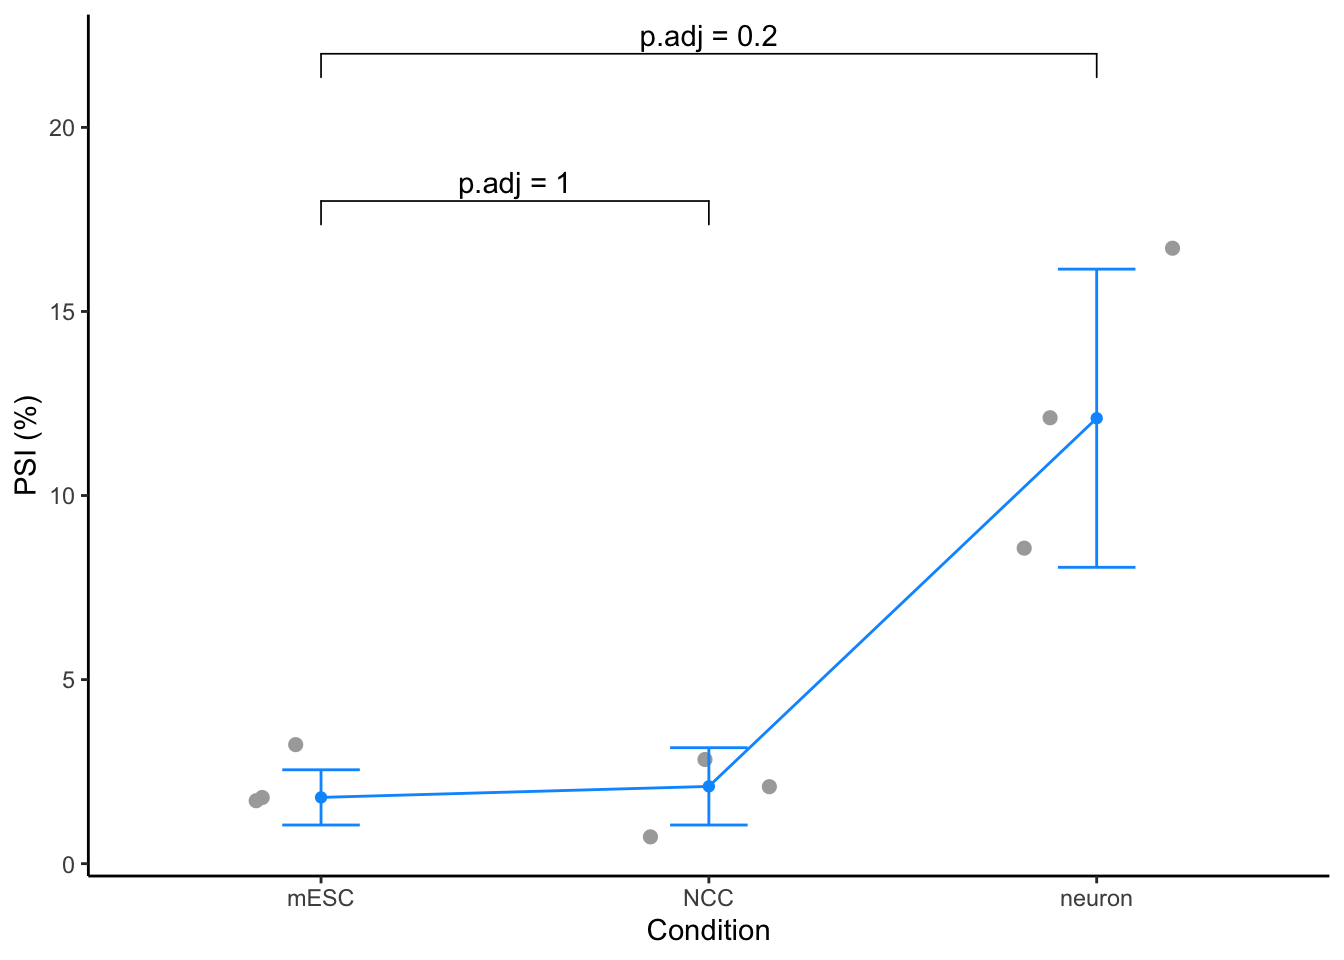
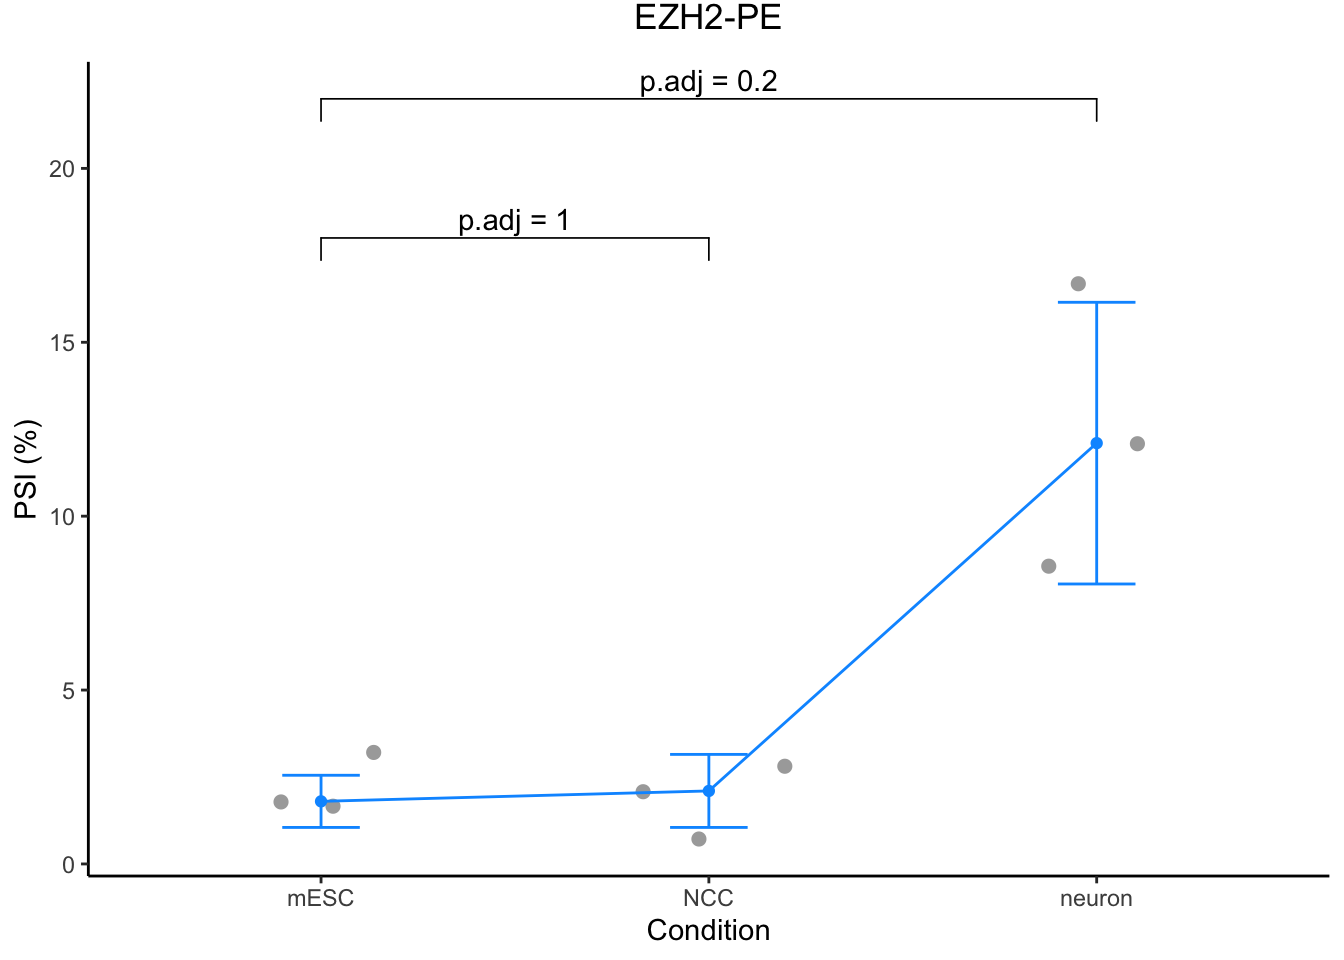
g

diff --git a/docs/index.html b/docs/index.html
@@ -347,8 +347,8 @@ div.tocify {
 
 <div id="coordinates" class="section level1">
 <h1>Coordinates</h1>
-<div id="htmlwidget-652a39f47283cfdcc466" class="reactable html-widget" style="width:auto;height:auto;"></div>
-<script type="application/json" data-for="htmlwidget-652a39f47283cfdcc466">{"x":{"tag":{"name":"Reactable","attribs":{"data":{"organism":["mouse","human"],"gene":["EZH2","EZH2"],"flanking_exons":["chr6:47545675-47547436","chr7:148513775-148516779"],"cassette_exon":["chr6:47546748-47546830","chr7:148516069-148516151"],"exon_size":[82,82]},"columns":[{"accessor":"organism","name":"organism","type":"character"},{"accessor":"gene","name":"gene","type":"character"},{"accessor":"flanking_exons","name":"flanking_exons","type":"character"},{"accessor":"cassette_exon","name":"cassette_exon","type":"character"},{"accessor":"exon_size","name":"exon_size","type":"numeric"}],"defaultPageSize":10,"paginationType":"numbers","showPageInfo":true,"minRows":1,"dataKey":"b2ce8ef4a52caa031020ac61139de0dc","key":"b2ce8ef4a52caa031020ac61139de0dc"},"children":[]},"class":"reactR_markup"},"evals":[],"jsHooks":[]}</script>
+<div id="htmlwidget-9d17abfd22ad33b95fcb" class="reactable html-widget" style="width:auto;height:auto;"></div>
+<script type="application/json" data-for="htmlwidget-9d17abfd22ad33b95fcb">{"x":{"tag":{"name":"Reactable","attribs":{"data":{"organism":["mouse","human"],"gene":["EZH2","EZH2"],"flanking_exons":["chr6:47545675-47547436","chr7:148513775-148516779"],"cassette_exon":["chr6:47546748-47546830","chr7:148516069-148516151"],"exon_size":[82,82]},"columns":[{"accessor":"organism","name":"organism","type":"character"},{"accessor":"gene","name":"gene","type":"character"},{"accessor":"flanking_exons","name":"flanking_exons","type":"character"},{"accessor":"cassette_exon","name":"cassette_exon","type":"character"},{"accessor":"exon_size","name":"exon_size","type":"numeric"}],"defaultPageSize":10,"paginationType":"numbers","showPageInfo":true,"minRows":1,"dataKey":"b2ce8ef4a52caa031020ac61139de0dc","key":"b2ce8ef4a52caa031020ac61139de0dc"},"children":[]},"class":"reactR_markup"},"evals":[],"jsHooks":[]}</script>
 <div id="ezh2-expression-across-development" class="section level2 tabset tabset-pills">
 <h2 class="tabset tabset-pills">EZH2 Expression Across Development</h2>
 <p>Obtained from Cardoso-Moreira (2019) web-based application: <a href="http://evodevoapp" class="uri">http://evodevoapp</a>. kaessmannlab.org.</p>
@@ -379,23 +379,23 @@ div.tocify {
 </div>
 <div id="mouse-neuronal-differentiation" class="section level1">
 <h1>Mouse Neuronal Differentiation</h1>
-<div id="htmlwidget-9254d056fef1f54d34d2" class="reactable html-widget" style="width:auto;height:auto;"></div>
-<script type="application/json" data-for="htmlwidget-9254d056fef1f54d34d2">{"x":{"tag":{"name":"Reactable","attribs":{"data":{"group1":["mESC","mESC"],"group2":["NCC","neuron"],"p":[1,0.1],"p.adj":[1,0.2],"p.format":["1.0","0.1"],"p.signif":["ns","ns"],"method":["Wilcoxon","Wilcoxon"]},"columns":[{"accessor":"group1","name":"group1","type":"character"},{"accessor":"group2","name":"group2","type":"character"},{"accessor":"p","name":"p","type":"numeric"},{"accessor":"p.adj","name":"p.adj","type":"numeric"},{"accessor":"p.format","name":"p.format","type":"character"},{"accessor":"p.signif","name":"p.signif","type":"character"},{"accessor":"method","name":"method","type":"character"}],"defaultPageSize":10,"paginationType":"numbers","showPageInfo":true,"minRows":1,"dataKey":"d8ff918acb08428f4122129517b22582","key":"d8ff918acb08428f4122129517b22582"},"children":[]},"class":"reactR_markup"},"evals":[],"jsHooks":[]}</script>
+<div id="htmlwidget-32c4bcccd2a115616159" class="reactable html-widget" style="width:auto;height:auto;"></div>
+<script type="application/json" data-for="htmlwidget-32c4bcccd2a115616159">{"x":{"tag":{"name":"Reactable","attribs":{"data":{"group1":["mESC","mESC"],"group2":["NCC","neuron"],"p":[1,0.1],"p.adj":[1,0.2],"p.format":["1.0","0.1"],"p.signif":["ns","ns"],"method":["Wilcoxon","Wilcoxon"]},"columns":[{"accessor":"group1","name":"group1","type":"character"},{"accessor":"group2","name":"group2","type":"character"},{"accessor":"p","name":"p","type":"numeric"},{"accessor":"p.adj","name":"p.adj","type":"numeric"},{"accessor":"p.format","name":"p.format","type":"character"},{"accessor":"p.signif","name":"p.signif","type":"character"},{"accessor":"method","name":"method","type":"character"}],"defaultPageSize":10,"paginationType":"numbers","showPageInfo":true,"minRows":1,"dataKey":"d8ff918acb08428f4122129517b22582","key":"d8ff918acb08428f4122129517b22582"},"children":[]},"class":"reactR_markup"},"evals":[],"jsHooks":[]}</script>
 <div class="figure">
-<img src="index_files/figure-html/unnamed-chunk-2-1.png" alt="Figure 1. Plotted as median +/- interquartile range. mESC = mouse embryonic stem cells; NCC = neural crest cells" width="672" />
+<img src="index_files/figure-html/unnamed-chunk-2-1.png" alt="Figure 1. EZH2-PE inclusion in mESC differentiated into neurons. PSI plotted as median +/- interquartile range (n = 3). mESC = mouse embryonic stem cells; NCC = neural crest cells" width="672" />
 <p class="caption">
-Figure 1. Plotted as median +/- interquartile range. mESC = mouse embryonic stem cells; NCC = neural crest cells
+Figure 1. EZH2-PE inclusion in mESC differentiated into neurons. PSI plotted as median +/- interquartile range (n = 3). mESC = mouse embryonic stem cells; NCC = neural crest cells
 </p>
 </div>
 </div>
 <div id="human-ipscs-differentiated-into-neurons" class="section level1">
 <h1>Human iPSCs differentiated into neurons</h1>
-<div id="htmlwidget-58e8e516209c0ee67b75" class="reactable html-widget" style="width:auto;height:auto;"></div>
-<script type="application/json" data-for="htmlwidget-58e8e516209c0ee67b75">{"x":{"tag":{"name":"Reactable","attribs":{"data":{"group1":["iPSC","iPSC","iPSC"],"group2":["NPC","Rosette","Neuron"],"p":[0.045576625175438,0.0294517500098202,0.00316444822391604],"p.adj":[0.046,0.044,0.0095],"p.format":["0.0456","0.0295","0.0032"],"p.signif":["*","*","**"],"method":["Wilcoxon","Wilcoxon","Wilcoxon"]},"columns":[{"accessor":"group1","name":"group1","type":"character"},{"accessor":"group2","name":"group2","type":"character"},{"accessor":"p","name":"p","type":"numeric"},{"accessor":"p.adj","name":"p.adj","type":"numeric"},{"accessor":"p.format","name":"p.format","type":"character"},{"accessor":"p.signif","name":"p.signif","type":"character"},{"accessor":"method","name":"method","type":"character"}],"defaultPageSize":10,"paginationType":"numbers","showPageInfo":true,"minRows":1,"dataKey":"40dabfec7cc9aeb13cb5da16ec048e64","key":"40dabfec7cc9aeb13cb5da16ec048e64"},"children":[]},"class":"reactR_markup"},"evals":[],"jsHooks":[]}</script>
+<div id="htmlwidget-f0d86f6716719e73094e" class="reactable html-widget" style="width:auto;height:auto;"></div>
+<script type="application/json" data-for="htmlwidget-f0d86f6716719e73094e">{"x":{"tag":{"name":"Reactable","attribs":{"data":{"group1":["iPSC","iPSC","iPSC"],"group2":["NPC","Rosette","Neuron"],"p":[0.045576625175438,0.0294517500098202,0.00316444822391604],"p.adj":[0.046,0.044,0.0095],"p.format":["0.0456","0.0295","0.0032"],"p.signif":["*","*","**"],"method":["Wilcoxon","Wilcoxon","Wilcoxon"]},"columns":[{"accessor":"group1","name":"group1","type":"character"},{"accessor":"group2","name":"group2","type":"character"},{"accessor":"p","name":"p","type":"numeric"},{"accessor":"p.adj","name":"p.adj","type":"numeric"},{"accessor":"p.format","name":"p.format","type":"character"},{"accessor":"p.signif","name":"p.signif","type":"character"},{"accessor":"method","name":"method","type":"character"}],"defaultPageSize":10,"paginationType":"numbers","showPageInfo":true,"minRows":1,"dataKey":"40dabfec7cc9aeb13cb5da16ec048e64","key":"40dabfec7cc9aeb13cb5da16ec048e64"},"children":[]},"class":"reactR_markup"},"evals":[],"jsHooks":[]}</script>
 <div class="figure">
-<img src="index_files/figure-html/unnamed-chunk-4-1.png" alt="Figure 2. Plotted as median ± interquartile range. iPSC = induced pluripotent stem cells; NPC = neural progenitor cell; Rosette = highly organized multicellular structures derived from NPC and neuroprogenitors within rosettes differentiate into neurons" width="672" />
+<img src="index_files/figure-html/unnamed-chunk-4-1.png" alt="Figure 2. EZH2-PE inclusion in iPSCs differentiated into neurons with PSI plotted as median ± interquartile range (n ≥ 4). iPSC = induced pluripotent stem cells; NPC = neural progenitor cell; Rosette = highly organized multicellular structures derived from NPC and neuroprogenitors within rosettes differentiate into neurons" width="672" />
 <p class="caption">
-Figure 2. Plotted as median ± interquartile range. iPSC = induced pluripotent stem cells; NPC = neural progenitor cell; Rosette = highly organized multicellular structures derived from NPC and neuroprogenitors within rosettes differentiate into neurons
+Figure 2. EZH2-PE inclusion in iPSCs differentiated into neurons with PSI plotted as median ± interquartile range (n ≥ 4). iPSC = induced pluripotent stem cells; NPC = neural progenitor cell; Rosette = highly organized multicellular structures derived from NPC and neuroprogenitors within rosettes differentiate into neurons
 </p>
 </div>
 </div>
@@ -409,8 +409,8 @@ Figure 2. Plotted as median ± interquartile range. iPSC = induced pluripotent s
 </div>
 <div id="forebrain-vs-hindbrain" class="section level1">
 <h1>Forebrain vs Hindbrain</h1>
-<div id="htmlwidget-02783cce9843cce7a8aa" class="reactable html-widget" style="width:auto;height:auto;"></div>
-<script type="application/json" data-for="htmlwidget-02783cce9843cce7a8aa">{"x":{"tag":{"name":"Reactable","attribs":{"data":{"group1":["forebrain"],"group2":["hindbrain"],"p":[0.0495071153982545],"p.adj":[0.05],"p.format":["0.05"],"p.signif":["*"],"method":["T-test"]},"columns":[{"accessor":"group1","name":"group1","type":"character"},{"accessor":"group2","name":"group2","type":"character"},{"accessor":"p","name":"p","type":"numeric"},{"accessor":"p.adj","name":"p.adj","type":"numeric"},{"accessor":"p.format","name":"p.format","type":"character"},{"accessor":"p.signif","name":"p.signif","type":"character"},{"accessor":"method","name":"method","type":"character"}],"defaultPageSize":10,"paginationType":"numbers","showPageInfo":true,"minRows":1,"dataKey":"9868eb525a8d05dd8db3994d9b6f7b4a","key":"9868eb525a8d05dd8db3994d9b6f7b4a"},"children":[]},"class":"reactR_markup"},"evals":[],"jsHooks":[]}</script>
+<div id="htmlwidget-f6e6bc8ab482bc9284c9" class="reactable html-widget" style="width:auto;height:auto;"></div>
+<script type="application/json" data-for="htmlwidget-f6e6bc8ab482bc9284c9">{"x":{"tag":{"name":"Reactable","attribs":{"data":{"group1":["forebrain"],"group2":["hindbrain"],"p":[0.0495071153982545],"p.adj":[0.05],"p.format":["0.05"],"p.signif":["*"],"method":["T-test"]},"columns":[{"accessor":"group1","name":"group1","type":"character"},{"accessor":"group2","name":"group2","type":"character"},{"accessor":"p","name":"p","type":"numeric"},{"accessor":"p.adj","name":"p.adj","type":"numeric"},{"accessor":"p.format","name":"p.format","type":"character"},{"accessor":"p.signif","name":"p.signif","type":"character"},{"accessor":"method","name":"method","type":"character"}],"defaultPageSize":10,"paginationType":"numbers","showPageInfo":true,"minRows":1,"dataKey":"9868eb525a8d05dd8db3994d9b6f7b4a","key":"9868eb525a8d05dd8db3994d9b6f7b4a"},"children":[]},"class":"reactR_markup"},"evals":[],"jsHooks":[]}</script>
 <p><img src="index_files/figure-html/unnamed-chunk-7-2.png" width="672" /></p>
 </div>
 
